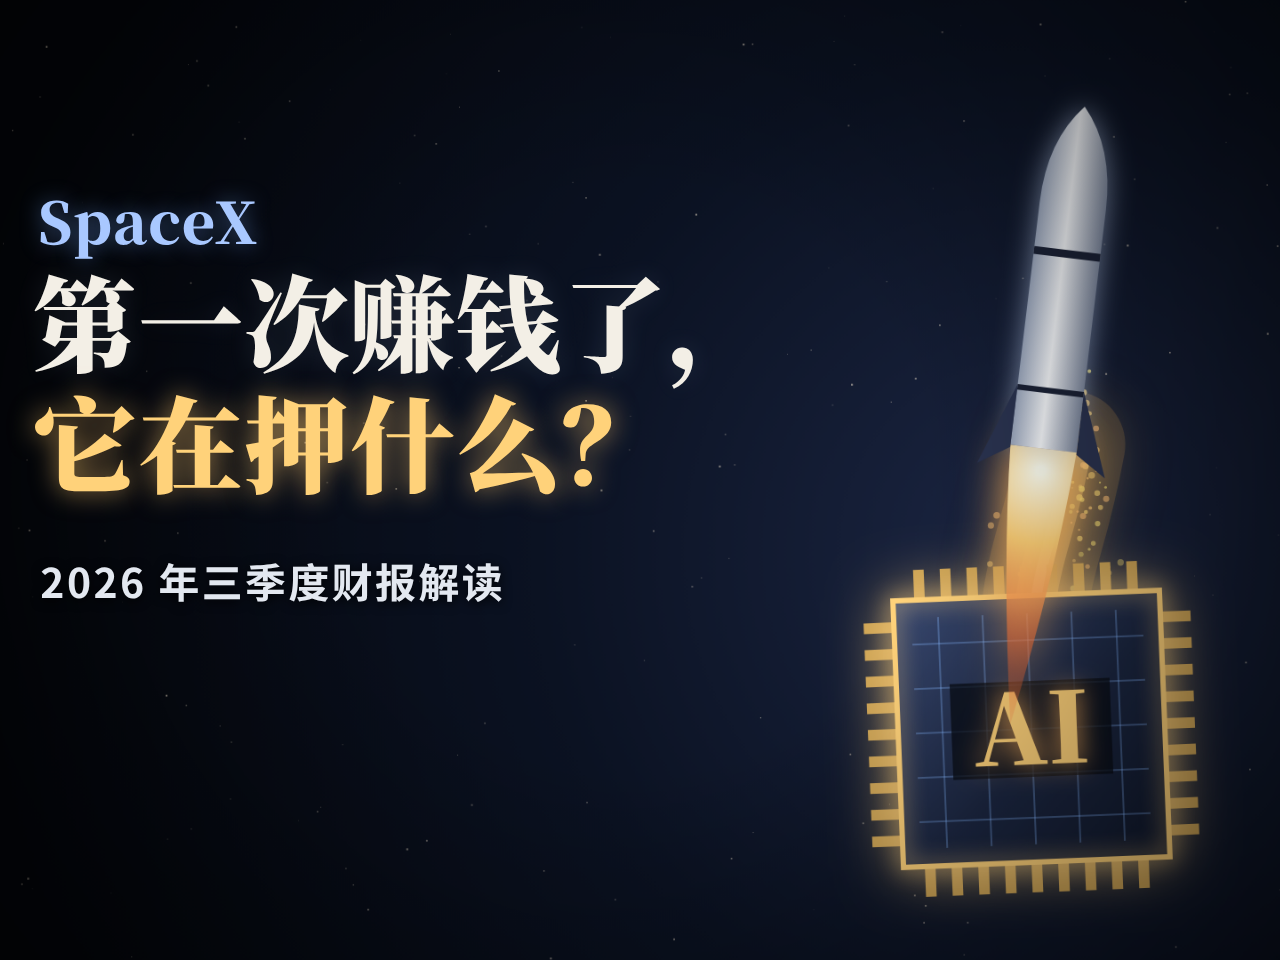
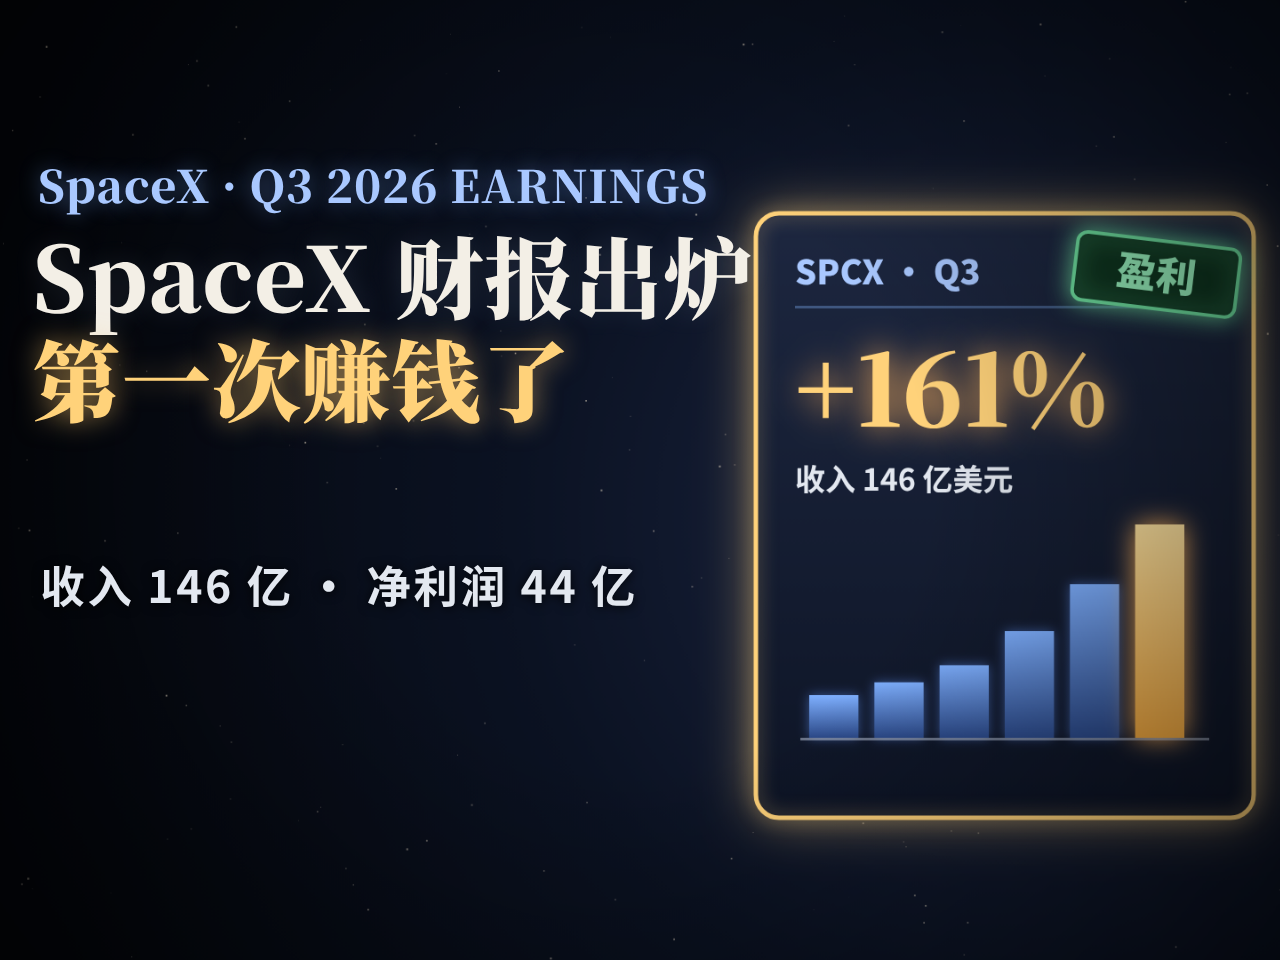
SpaceX：封面改为财报为主，SOP 记录
Claude-Session: https://claude.ai/code/session_015ea4NsPFBFsDCRBdgbtW5b

Changed region(s): [[0.0, 0.0938, 1.0, 0.9375], [0.0312, 0.5625, 0.5, 0.6562]]

diff --git a/ws/kit/video-kit/cover/cover_sx.html b/ws/kit/video-kit/cover/cover_sx.html
@@ -5,60 +5,57 @@
 html,body{margin:0;background:#05070c;overflow:hidden}
 .c{position:relative;overflow:hidden;color:#fff;font-family:"Noto Serif SC","Noto Serif CJK SC",serif}
 canvas{position:absolute;left:0;top:0}
-.kick{position:absolute;font-weight:900;font-size:64px;color:#a9c8ff;letter-spacing:.02em;text-shadow:0 0 24px rgba(120,170,255,.45)}
+.kick{position:absolute;font-weight:900;font-size:50px;color:#a9c8ff;letter-spacing:.02em;text-shadow:0 0 24px rgba(120,170,255,.45)}
 .h{position:absolute;font-weight:900;line-height:1.16;color:#f3efe6;letter-spacing:.01em;text-shadow:0 0 30px rgba(200,220,255,.12)}
 .h i{font-style:normal;color:#ffd27a;text-shadow:0 0 30px rgba(255,200,110,.6)}
 .sub{position:absolute;font-family:"Noto Sans SC","Noto Sans CJK SC",sans-serif;font-weight:700;font-size:46px;color:#e3e8f0;letter-spacing:.06em;text-shadow:0 2px 12px rgba(0,0,0,.9)}
 .w .c{width:1920px;height:1080px}
-.w .kick{left:282px;top:200px}
-.w .h{left:276px;top:290px;font-size:118px}
-.w .sub{left:285px;top:620px}
+.w .kick{left:282px;top:170px}
+.w .h{left:276px;top:250px;font-size:100px}
+.w .sub{left:285px;top:620px;font-size:50px}
 .v .c{width:1080px;height:1440px}
-.v .kick{left:0;right:0;top:110px;text-align:center;font-size:72px}
-.v .h{left:0;right:0;top:210px;text-align:center;font-size:104px}
-.v .sub{left:0;right:0;top:1280px;text-align:center;font-size:50px}
+.v .kick{left:0;right:0;top:100px;text-align:center;font-size:44px}
+.v .h{left:0;right:0;top:180px;text-align:center;font-size:100px}
+.v .sub{left:0;right:0;top:1300px;text-align:center;font-size:46px}
 </style></head><body><div class="c">
 <canvas id="cv"></canvas>
-<div class="kick">SpaceX</div>
-<div class="h">第一次赚钱了<span style="letter-spacing:-.45em">，</span><br><i>它在押什么？</i></div>
-<div class="sub">2026 年三季度财报解读</div>
+<div class="kick">SpaceX · Q3 2026 EARNINGS</div>
+<div class="h">SpaceX 财报出炉<br><i>第一次赚钱了</i></div>
+<div class="sub">收入 146 亿 · 净利润 44 亿</div>
 </div>
 <script>
 var V = location.hash === '#dy'; document.body.className = V ? 'v' : 'w';
 var W = V ? 1080 : 1920, H = V ? 1440 : 1080, cv = document.getElementById('cv'); cv.width = W; cv.height = H;
 var g = cv.getContext('2d');
 function rnd(s) { var x = Math.sin(s * 91.7 + 17.3) * 43758.5453; return x - Math.floor(x); }
-var CX = V ? 540 : 1400, CY = V ? 1030 : 820, S = V ? 1.15 : 1.0;           // chip centre
-var bg = g.createRadialGradient(CX, CY - 200, 40, CX, CY - 200, V ? 1000 : 1200); bg.addColorStop(0, '#1a2440'); bg.addColorStop(0.45, '#0b1222'); bg.addColorStop(1, '#04060b');
+var S = V ? 1.0 : 1.0, CX = V ? 540 : 1370, CY = V ? 830 : 580;                 // earnings sheet centre
+var bg = g.createRadialGradient(CX, CY, 40, CX, CY, V ? 1000 : 1200); bg.addColorStop(0, '#1a2440'); bg.addColorStop(0.45, '#0b1222'); bg.addColorStop(1, '#04060b');
 g.fillStyle = bg; g.fillRect(0, 0, W, H);
 for (var i = 0; i < 260; i++) { g.fillStyle = 'rgba(255,240,215,' + (0.1 + 0.5 * rnd(i + 5)).toFixed(2) + ')'; var r = 0.6 + 1.6 * rnd(i + 9); g.fillRect(rnd(i) * W, rnd(i + 99) * H, r, r); }
-// rocket position: rising up and slightly right from the chip
-var RX = CX + (V ? 40 : 60) * S, RY = V ? 480 : 120, ANG = 0.12, RS = V ? 0.85 : 1.25;
-// gold exhaust trail from the chip up to the rocket's tail
-var tailX = RX - Math.sin(ANG) * 0, tailY = RY + 288 * S * RS;
-g.save(); g.lineCap = 'round';
-for (var k = 0; k < 3; k++) { g.beginPath(); g.moveTo(CX, CY - 40 * S); g.bezierCurveTo(CX, CY - 200 * S, tailX - 40 * S, tailY + 160 * S, tailX - 30 * S * Math.sin(ANG) * 4, tailY + 20 * S);
-  g.strokeStyle = k === 0 ? 'rgba(255,190,90,0.18)' : k === 1 ? 'rgba(255,205,120,0.45)' : 'rgba(255,240,200,0.95)'; g.lineWidth = (k === 0 ? 120 : k === 1 ? 46 : 12) * S; g.shadowColor = '#f0bd5c'; g.shadowBlur = k === 2 ? 30 : 60; g.stroke(); }
-g.restore();
-// sparks
-for (var i = 0; i < 140; i++) { var t = rnd(i + 3), px = CX + (tailX - CX) * t + (rnd(i + 7) - 0.5) * 260 * (1 - t) * S, py = CY - 40 * S + (tailY - CY) * t + (rnd(i + 11) - 0.5) * 120 * S;
-  g.fillStyle = 'rgba(255,' + (190 + 50 * rnd(i)).toFixed(0) + ',120,' + (0.25 + 0.6 * t).toFixed(2) + ')'; g.beginPath(); g.arc(px, py, (1 + 3 * rnd(i + 13)) * S, 0, 6.29); g.fill(); }
-// the AI chip (square die, pins on four sides)
-(function () { var w = 300 * S; g.save(); g.translate(CX, CY); g.rotate(-0.04);
-  g.fillStyle = '#c9a052'; for (var i = 0; i < 9; i++) { var o = -w / 2 + w * 0.1 + i * w * 0.1; g.fillRect(o - 6 * S, -w / 2 - 34 * S, 12 * S, 34 * S); g.fillRect(o - 6 * S, w / 2, 12 * S, 34 * S); g.fillRect(-w / 2 - 34 * S, o - 6 * S, 34 * S, 12 * S); g.fillRect(w / 2, o - 6 * S, 34 * S, 12 * S); }
-  g.shadowColor = 'rgba(255,210,130,0.9)'; g.shadowBlur = 70; var gr = g.createLinearGradient(-w / 2, -w / 2, w / 2, w / 2); gr.addColorStop(0, '#3a4a72'); gr.addColorStop(0.55, '#1c2742'); gr.addColorStop(1, '#121a2e');
-  g.fillStyle = gr; g.beginPath(); g.rect(-w / 2, -w / 2, w, w); g.fill(); g.shadowBlur = 24; g.strokeStyle = '#ffd27a'; g.lineWidth = 6 * S; g.stroke(); g.shadowBlur = 0;
-  g.strokeStyle = 'rgba(134,182,255,0.35)'; g.lineWidth = 2; for (var i = 1; i < 6; i++) { g.beginPath(); g.moveTo(-w / 2 + i * w / 6, -w / 2 + 20 * S); g.lineTo(-w / 2 + i * w / 6, w / 2 - 20 * S); g.stroke(); g.beginPath(); g.moveTo(-w / 2 + 20 * S, -w / 2 + i * w / 6); g.lineTo(w / 2 - 20 * S, -w / 2 + i * w / 6); g.stroke(); }
-  g.fillStyle = 'rgba(8,12,20,0.75)'; g.fillRect(-w * 0.3, -w * 0.18, w * 0.6, w * 0.36); g.font = '900 ' + Math.round(110 * S) + 'px "Noto Serif CJK SC", serif'; g.textAlign = 'center'; g.fillStyle = '#ffd27a'; g.shadowColor = '#ffb460'; g.shadowBlur = 30; g.fillText('AI', 0, 40 * S);
-  g.restore(); })();
-// flame + rocket
-(function () { g.save(); g.translate(RX, RY); g.rotate(ANG); g.scale(S * RS, S * RS);
-  var fl = g.createRadialGradient(0, 330, 4, 0, 380, 200); fl.addColorStop(0, 'rgba(255,255,240,1)'); fl.addColorStop(0.25, 'rgba(255,210,120,0.95)'); fl.addColorStop(0.6, 'rgba(255,120,60,0.6)'); fl.addColorStop(1, 'rgba(255,90,40,0)');
-  g.fillStyle = fl; g.beginPath(); g.moveTo(-30, 310); g.quadraticCurveTo(-24, 400, 0, V ? 470 : 560); g.quadraticCurveTo(24, 400, 30, 310); g.closePath(); g.shadowColor = '#ffb460'; g.shadowBlur = 50; g.fill(); g.shadowBlur = 0;
-  var gr = g.createLinearGradient(-30, 0, 30, 0); gr.addColorStop(0, '#9aa6bc'); gr.addColorStop(0.45, '#f6f8fb'); gr.addColorStop(1, '#7d889e');
-  g.shadowColor = 'rgba(200,220,255,0.6)'; g.shadowBlur = 30; g.fillStyle = gr; g.beginPath(); g.moveTo(0, 0); g.quadraticCurveTo(30, 34, 30, 90); g.lineTo(30, 310); g.lineTo(-30, 310); g.lineTo(-30, 90); g.quadraticCurveTo(-30, 34, 0, 0); g.fill(); g.shadowBlur = 0;
-  g.fillStyle = '#1b2236'; g.fillRect(-30, 130, 60, 7); g.fillRect(-30, 255, 60, 5);
-  g.fillStyle = '#2a3350'; g.beginPath(); g.moveTo(-30, 255); g.lineTo(-58, 330); g.lineTo(-30, 312); g.fill(); g.beginPath(); g.moveTo(30, 255); g.lineTo(58, 330); g.lineTo(30, 312); g.fill();
-  g.restore(); })();
+// the earnings sheet
+var PW = V ? 760 : 560, PH = V ? 640 : 680, X0 = CX - PW / 2, Y0 = CY - PH / 2;
+g.save(); g.shadowColor = 'rgba(255,210,130,0.55)'; g.shadowBlur = 60; g.beginPath(); g.roundRect(X0, Y0, PW, PH, 26);
+var pg = g.createLinearGradient(0, Y0, 0, Y0 + PH); pg.addColorStop(0, '#1d2740'); pg.addColorStop(1, '#0e1526'); g.fillStyle = pg; g.fill(); g.shadowBlur = 20; g.strokeStyle = '#ffd27a'; g.lineWidth = 5; g.stroke(); g.restore();
+g.textAlign = 'left'; g.fillStyle = '#a9c8ff'; g.font = '900 ' + (V ? 40 : 38) + 'px "Noto Sans CJK SC", sans-serif'; g.fillText((V ? 'SPCX · Q3 财报' : 'SPCX · Q3'), X0 + 44, Y0 + 80);
+g.fillStyle = 'rgba(134,182,255,0.35)'; g.fillRect(X0 + 44, Y0 + 104, PW - 88, 3);
+// big number
+g.font = '900 ' + (V ? 150 : 112) + 'px "Noto Serif CJK SC", serif'; g.fillStyle = '#ffd27a'; g.shadowColor = '#ffb460'; g.shadowBlur = 36; g.fillText('+161%', X0 + 44, Y0 + (V ? 270 : 240)); g.shadowBlur = 0;
+g.font = '700 ' + (V ? 40 : 34) + 'px "Noto Sans CJK SC", sans-serif'; g.fillStyle = '#e3e8f0'; g.fillText('收入 146 亿美元', X0 + 44, Y0 + (V ? 336 : 312));
+// bars: year ago vs now vs a rising series
+var bx = X0 + 60, by = Y0 + PH - 90, bh = PH - (V ? 470 : 440), vals = [0.2, 0.26, 0.34, 0.5, 0.72, 1.0], bw = (PW - 120) / vals.length - 18;
+vals.forEach(function (v, i) { var x = bx + i * (bw + 18), h = bh * v; var gr = g.createLinearGradient(0, by - h, 0, by); gr.addColorStop(0, i === 5 ? '#ffe3a0' : '#7fb0ff'); gr.addColorStop(1, i === 5 ? '#f0a840' : '#2c4a8a');
+  g.shadowColor = i === 5 ? '#ffb460' : 'rgba(100,150,255,0.5)'; g.shadowBlur = i === 5 ? 30 : 12; g.fillStyle = gr; g.fillRect(x, by - h, bw, h); });
+g.shadowBlur = 0; g.fillStyle = 'rgba(200,210,230,0.5)'; g.fillRect(bx - 10, by, PW - 100, 3);
+// profit badge
+g.save(); var BX = X0 + PW - (V ? 70 : 50), BY = Y0 + 76; g.translate(BX, BY); g.rotate(0.12); if (!V) g.scale(0.8, 0.8);
+g.fillStyle = 'rgba(8,40,22,0.92)'; g.strokeStyle = '#6fe0a0'; g.lineWidth = 5; g.shadowColor = '#6fe0a0'; g.shadowBlur = 26; g.beginPath(); g.roundRect(-190, -48, 230, 96, 14); g.fill(); g.stroke(); g.shadowBlur = 0;
+g.font = '900 56px "Noto Sans CJK SC", sans-serif'; g.fillStyle = '#9af5c0'; g.textAlign = 'center'; g.fillText('盈利', -75, 20); g.restore();
+// small rocket launching off the sheet's top-right corner
+if (V) (function () { var rx = X0 + PW + (V ? -10 : -20), ry = Y0 + (V ? 160 : 70); g.save(); g.translate(rx, ry); g.rotate(0.35); g.scale(V ? 0.5 : 0.55, V ? 0.5 : 0.55);
+  var fl = g.createRadialGradient(0, 330, 4, 0, 380, 180); fl.addColorStop(0, 'rgba(255,255,240,1)'); fl.addColorStop(0.3, 'rgba(255,210,120,0.95)'); fl.addColorStop(1, 'rgba(255,90,40,0)');
+  g.fillStyle = fl; g.beginPath(); g.moveTo(-26, 310); g.quadraticCurveTo(-18, 420, 0, 520); g.quadraticCurveTo(18, 420, 26, 310); g.closePath(); g.shadowColor = '#ffb460'; g.shadowBlur = 50; g.fill(); g.shadowBlur = 0;
+  var gr = g.createLinearGradient(-30, 0, 30, 0); gr.addColorStop(0, '#9aa6bc'); gr.addColorStop(0.45, '#f6f8fb'); gr.addColorStop(1, '#7d889e'); g.fillStyle = gr;
+  g.beginPath(); g.moveTo(0, 0); g.quadraticCurveTo(30, 34, 30, 90); g.lineTo(30, 310); g.lineTo(-30, 310); g.lineTo(-30, 90); g.quadraticCurveTo(-30, 34, 0, 0); g.fill();
+  g.fillStyle = '#1b2236'; g.fillRect(-30, 130, 60, 7); g.fillRect(-30, 255, 60, 5); g.fillStyle = '#2a3350'; g.beginPath(); g.moveTo(-30, 255); g.lineTo(-58, 330); g.lineTo(-30, 312); g.fill(); g.beginPath(); g.moveTo(30, 255); g.lineTo(58, 330); g.lineTo(30, 312); g.fill(); g.restore(); })();
 var vg = g.createRadialGradient(W / 2, H / 2, H * 0.3, W / 2, H / 2, H * 1.0); vg.addColorStop(0, 'rgba(0,0,0,0)'); vg.addColorStop(1, 'rgba(0,0,0,0.7)'); g.fillStyle = vg; g.fillRect(0, 0, W, H);
 </script></body></html>

diff --git a/SOP.md b/SOP.md
@@ -169,7 +169,7 @@ Oct 14, 2026 · @kyo
 
 - **公司介绍系列 #2《一千亿的订单，为什么还在亏钱？》CoreWeave（2026-10-21，约 6 分 43 秒，22 幕 + 6 章节卡，v2 引擎 + vibe 配乐）**：用户因为看到“木头姐买入、马斯克说 Yikes”想知道值不值得买、但不了解这家公司。结构 = 钩子（1040 亿订单 vs 季度亏损 6.26 亿、利息 6.4 亿）→ 挖矿（2017 Atlantic Crypto 挖以太坊、GPU 是什么、2018 币价崩、2019 改名出租算力、2025 上市 40 美元）→ 出租（卖 GPU 使用时间、房东比喻、只做 GPU、43 个数据中心、1.5/3.7 吉瓦、take-or-pay 多年合同 = 订单积压）→ 租客（微软约 67%、2026 Q2 最大客户约 36%、OpenAI/Meta 合同、英伟达既供货又入股）→ 借钱（GPU 抵押借 23 亿、债务加租约约 520 亿、资本开支 vs 收入、利息 2.7→6.4 亿、调整后经营赚钱但扣利息变亏、GPU 6 年折旧 vs Nebius 4 年）→ 分歧（10/13 债券收益率一度 15%、投资人发帖、马斯克 Yikes、10/14 跌约 15%、ARK 两天约 38 万股、木头姐理由标“据转述”）→ 信号（四件可自己查的事 + 如果…那么…）→ 回顾 → 来源 12 条。做法要点：①用户问“值不值得买”时不下结论，结尾给可查信号和条件情景，开场和结尾写“信息整理，不构成投资建议”和数据截至日期；②本期两位主角（木头姐、马斯克）写名字，其他人名（创始人、发帖的投资人）不写；③第一次用 v2 引擎做非传记片：复制 `nt2/engine.js`（counters 加 `dec` 小数），时间表 `cw/tl_cw.py` 自己排（字幕行 max(2.0, 0.55+字宽/7)，取整到拍，章节卡和“借”落在小节线），旁白每行视觉宽度 ≤18.5 字（ASCII 按 0.55），引文 ≤14 字，超了 tl 会报错；④vibe 配乐按小节重剪：前奏 0–7 垫钩子，鼓组 8 起接第一章，过门 40–46 + 停顿小节 47 正好落在“钱从哪来？”，drop 48 砸在“借”上，高潮 64–77 给分歧章，结尾 74–85 淡出；⑤网页用 canvas 引擎 + 内嵌 mp3 驱动（`cw/page.py`，约 8.7 MB），字体回退 Google Fonts 的 Noto Serif SC；⑥核对表里第三方整理的电话会、10-Q 摘录、FT 经 Investing 转述的数字都标“转述”。封面 `cover/cover_cw.html`：发光 GPU 机柜被金色链条缠住 + 大锁（链条后半圈 → 机柜 → 前半圈分层画）。代码见 `ws/cw/`。
 - **公司介绍系列 #3《卖内存卡的，凭什么涨了几十倍？》闪迪（2026-10-21，约 5 分 28 秒，19 幕，不出章节卡，v2 引擎 + vibe 配乐）**：用户要“公司介绍 + 为什么暴涨”，钩子“股价涨了几十倍”（27.89→2354 美元，约 84 倍），并要求“看完能知道该不该投”。结构 = 钩子 → 起源（1988 SunDisk、闪存、1991 给 IBM 的 20MB 固态硬盘）→ 内存卡/U 盘 → 与东芝/铠侠合资建厂（49.9%）→ 西数收购与 2025 拆分 → 卖什么（NAND、三块业务、消费只占约 6%）→ AI 要存储 → 涨价（收入 4.7 倍、约三分之二靠涨价）→ 毛利率 84.6% vs 英伟达 75% → 问题 → 周期（2022 Q4 价格跌两成多）→ 现在 → 多年合同 → 估值 → 押什么 → 自测清单 → 财报看三件事 → 回顾 → 来源 10 条。做法要点：①章节只在内部用，不给观众出章节卡（单一面包屑）；②“该不该投”用“买它等于押什么 + 押对/押错 + 自测清单（三条都符合才值得研究、两种情况要特别小心）+ 下次财报看三件事”让观众自己判断，不说买或不买；③市盈率给两种口径（过去一年利润约 19 倍、本季指引×4 约 8 倍），自算标“估算”；④vibe 停顿小节 47 放在“涨价会一直涨下去吗？”，drop 48 砸在“存储是周期生意”；⑤封面：内存卡变火箭（金色尾迹 + 火焰），竖版尾迹起点下移避开副标题。代码见 `ws/sd/`（scenes_sd.js = _head.js + _mid_sd.js + _foot.js 拼接）。
-- **财报解读 #1《SpaceX 第一次赚钱了，它在押什么？》（2026-10-22，约 5 分 22 秒，18 幕，不出章节卡，v2 引擎 + vibe 配乐）**：财报发布后一天做，数据截至收盘日。结构 = 钩子（收入 146 亿、2.6 倍、首次赚钱、同时花 196 亿）→ 公司（上市、收购 xAI、三块生意）→ 三块收入（AI 超过一半）→ AI 靠出租算力 → 运营利润（星链最赚钱、AI 被 Cursor 股票奖励拖累）→ 净利润高于运营利润要拆开讲（利息、其他收益、税收抵免；前三季合计仍亏）→ 星链（用户新增低于预期、每户价格降）→ 星舰 → 花钱比赚钱快 → 现金与融资 → 指引 → 估值（市销率两种口径，自算标估算）→ 押什么 → 自测清单 → 下季看三件事 → 回顾 → 来源 10 条。做法要点：①财报类先读公司新闻稿 PDF 和 8-K，电话会、分析师观点、市场预期、收盘价都标“转述”；②媒体转述的利润数字对不上时（净利润 440 万 vs 44 亿）以 8-K 为准，视频只用核对过的；③engine.js 的 timeline 在没有年份时直接返回（`if (!TL.years.length) return`）；④出片混音后真峰值要 < −1 dBFS：AAC 192k 会让临界峰值冒头，本期把音频再压 1 dB（−16.1 LUFS、−1.9 dBFS），以后先 `ffmpeg -af ebur128=peak=true` 检查 audio.wav 的真峰值，< −1.5 再封装；⑤封面：火箭从 AI 芯片起飞，竖版缩小火箭避免压住标题。代码见 `ws/sx/`。
+- **财报解读 #1《SpaceX 第一次赚钱了，它在押什么？》（2026-10-22，约 5 分 22 秒，18 幕，不出章节卡，v2 引擎 + vibe 配乐）**：财报发布后一天做，数据截至收盘日。结构 = 钩子（收入 146 亿、2.6 倍、首次赚钱、同时花 196 亿）→ 公司（上市、收购 xAI、三块生意）→ 三块收入（AI 超过一半）→ AI 靠出租算力 → 运营利润（星链最赚钱、AI 被 Cursor 股票奖励拖累）→ 净利润高于运营利润要拆开讲（利息、其他收益、税收抵免；前三季合计仍亏）→ 星链（用户新增低于预期、每户价格降）→ 星舰 → 花钱比赚钱快 → 现金与融资 → 指引 → 估值（市销率两种口径，自算标估算）→ 押什么 → 自测清单 → 下季看三件事 → 回顾 → 来源 10 条。做法要点：①财报类先读公司新闻稿 PDF 和 8-K，电话会、分析师观点、市场预期、收盘价都标“转述”；②媒体转述的利润数字对不上时（净利润 440 万 vs 44 亿）以 8-K 为准，视频只用核对过的；③engine.js 的 timeline 在没有年份时直接返回（`if (!TL.years.length) return`）；④出片混音后真峰值要 < −1 dBFS：AAC 192k 会让临界峰值冒头，本期把音频再压 1 dB（−16.1 LUFS、−1.9 dBFS），以后先 `ffmpeg -af ebur128=peak=true` 检查 audio.wav 的真峰值，< −1.5 再封装；⑤封面（用户要求“以财报为主，一眼知道是 SpaceX 公布财报了”）：财报类封面第一眼要写明“公司名 + 财报出炉”，配一张财报卡（+161%、收入 146 亿、盈利徽章、上升柱图）；4:3 裁切时面板右缘要留在中间 1440px 内。代码见 `ws/sx/`，封面 `cover/cover_sx.html`。
 
 样片《台积电三季报前瞻》的结构，总长 156 秒：
 
@@ -309,6 +309,7 @@ Oct 14, 2026 · @kyo
 | 2026-10-21 | “封面里的小字根本看不见；放大，然后英文写 CoreWeave”；“以后把适合用 Opus 的工作先做，Sonnet 能做的留着，Opus 做完告诉我切换” | 封面小字放大到 46–64px 加粗，英文名改原样大小写；第 3 节加两条：封面小字可读、Opus/Sonnet 分工顺序 |
 | 2026-10-21 | CoreWeave：看到木头姐在买、马斯克说 Yikes，想知道值不值得买但不了解它；要纯公司介绍 + 一幕木头姐 vs 马斯克；钩子“一千亿的订单，却在亏钱”；用 v2 引擎、配乐用 vibe；封面链条锁住的 GPU 机房 | 新做公司介绍 #2（约 6 分 43 秒）；第 5 节加该片做法（不下买卖结论、两位主角写名字、v2 用于非传记片、vibe 小节重剪把停顿小节放在“钱从哪来”、drop 砸在“借”） |
 | 2026-10-21 | “小红书可以添加作品描述” | 第 3 节加一条：小红书只给 #话题标签，不写描述正文（用户觉得描述有 AI 感，说“别写，给我#标签就好”） |
+| 2026-10-22 | “封面以财报为主，让用户一眼就知道这是 SpaceX 公布财报了” | SpaceX 封面改为“SpaceX 财报出炉 / 第一次赚钱了”+ 财报卡；第 5 节财报解读条目记下财报类封面规则 |
 | 2026-10-22 | “spacex 做好了吗”“做好了”：做 SpaceX 三季度财报解读，数字对账 + 买它在押什么 | 新做财报解读 #1（约 5 分 22 秒）；第 5 节加该片做法（8-K 为准、转述标注、净利润拆解、峰值处理）|
 | 2026-10-21 | “标题最好 20 字以内” | 第 3 节加一条：B 站标题 ≤20 字（标点空格都算），给标题时注明字数 |
 | 2026-10-21 | 闪迪：公司介绍 + 为什么暴涨，钩子“股价涨了几十倍”；“章就不用跟观众说了，但要让观众看完知道该不该投”；“买它等于押什么”；vibe；封面一张内存卡变成火箭 | 新做公司介绍 #3（约 5 分 28 秒）；第 5 节加该片做法（不出章节卡、押什么 + 自测清单代替买卖结论、市盈率两种口径标估算、vibe 停顿小节放在“涨价会一直涨下去吗”） |
